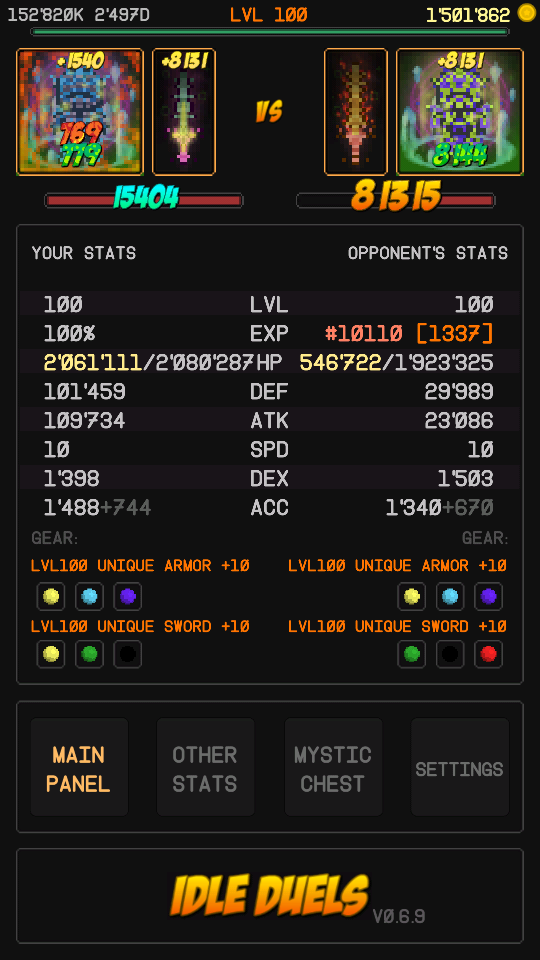
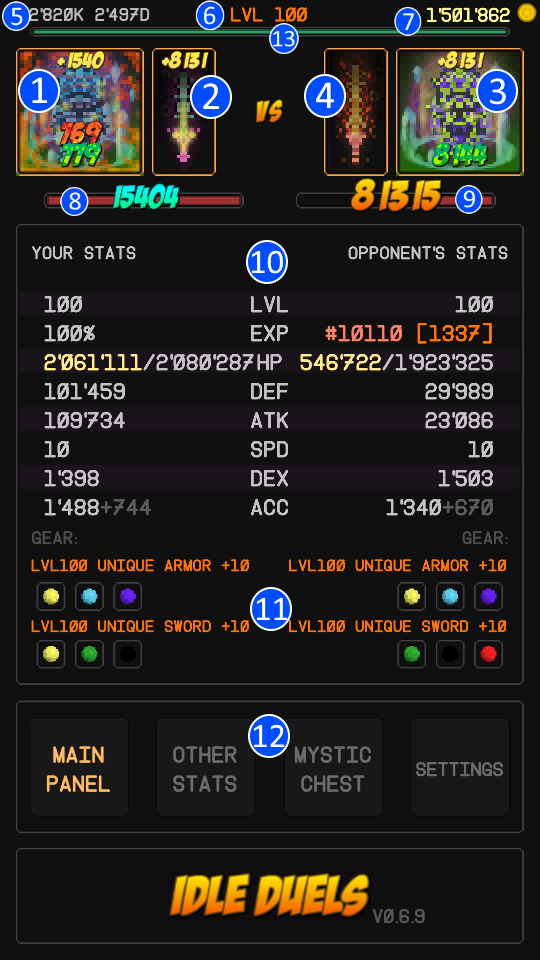
tutorial 00 updated

diff --git a/games/idleduels/index.html b/games/idleduels/index.html
@@ -70,8 +70,9 @@
 <p><small>8)</small> Your HP bar</p>
 <p><small>9)</small> Your opponent's HP bar</p>
 <p><small>10)</small> Stats of both players</p>
-<p><small>10)</small> Equipped gear, with empty or active power gems</p>
-<p><small>10)</small> Navigation panel</p>
+<p><small>11)</small> Equipped gear, with empty or active power gems</p>
+<p><small>12)</small> Navigation panel</p>
+<p><small>13)</small> Your experience gauge</p>
 
 
 
